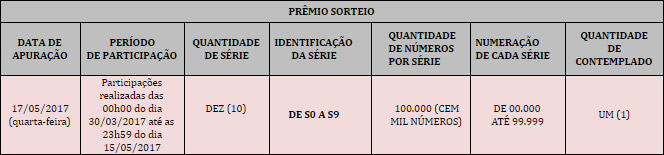
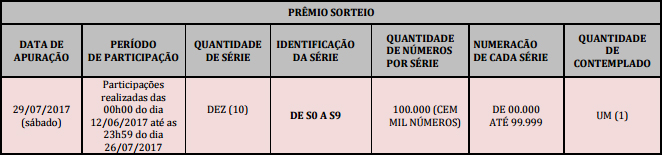
PLAT-3560 #comment ajustes landing final

Changed region(s): [[0.0, 0.0, 1.0, 1.0], [0.8761, 0.6968, 0.9668, 0.7742]]

diff --git a/src/pages/landing-concurso/index.html b/src/pages/landing-concurso/index.html
@@ -318,17 +318,17 @@
          <div>
             <img src="/arquivos/infografico.png" alt="" />
          </div> 
-         <span class="txt-promo">*Promoção válida para compras feitas de 12/06 a 29/07 e produtos acima de R$1.000,00.</span>
+         <span class="txt-promo">*Promoção válida para compras feitas de 12/06 a 26/07.<br />Pedidos com apenas peças de reposição e acessórios não entram na promoção.</span>
       </div>
       <div class="col-6 form">
-         <form action="" method="POST" id="form-concurso">
+         <form method="POST" id="form-concurso">
              <fieldset>
                  <label for="cname" class="tit">Nome Completo</label>
                  <input id="cname" type="text" name="campoName" minlength="2" required="required" data-validation="required" data-msg-required="Campo `nome` obrigatório"/>
              </fieldset>
 
              <fieldset>
-                 <label for="cemail" class="tit">E-mail</label>
+                 <label for="cemail" class="tit">E-mail <span class="frase-email">(Confira se o e-mail cadastrado está correto. Você receberá o número da sorte nele.)</span></label> 
                  <input id="cemail" type="email" name="campoEmail" required="required" data-validation="required" data-msg-required="Digite um e-mail válido" />
              </fieldset>
 
@@ -385,7 +385,8 @@
                2. Modalidade da Distribuição Gratuita de Prêmios. A distribuição gratuita de prêmios realizar-se-á na modalidade assemelhada a sorteio.<br />
                <div class="tgl">
                   3. Área de Execução. A presente promoção será válida, única e exclusivamente, para consumidores pessoas físicas - com idade igual ou superior aos dezoito (18) anos completos na data do cadastro - residentes e domiciliadas no território nacional. <br />  
-                  4. Produtos (objetos da promoção comercial). Produtos da marca Consul comercializados no seu e-commerce, endereço eletrônico: http://loja.consul.com.br/.<br />
+                  4. Produtos (objetos da promoção comercial). Produtos da marca Consul comercializados no seu e-commerce, endereço eletrônico: http://loja.consul.com.br/, excetuados os pedidos de compra com apenas peças de reposição ou acessórios que não serão válidos para essa promoção<br />
+                  4.1. Para fins de participação, serão consideradas as compras de produtos (excetuados pedidos de compra com apenas peças de reposição ou acessórios) com números de pedidos decompra faturados, ou seja, pedidos com confirmação depagamento e nota(s) fiscal(is) emitida(s).<br />
                   5. Prazo de Execução.<br />¨
                   5.1. A promoção iniciar-se-á no dia 12/06/2017 e encerrar-se-á no dia 29/07/2017 (data de apuração dos resultados). <br />
                   5.2. Período de participação: A partir das 00h00m do dia 12/06/2017 até as 23h59m (horário de Brasília) do dia 26/07/2017.<br />
@@ -393,7 +394,7 @@
                   6.1. Condição de participação. A Promoção Bem Pensada Consul é válida para a participação de pessoas físicas - com idade igual ou superior aos dezoito (18) anos completos (“Consumidores Participantes”) no ato da inscrição e residentes no Brasil que se cadastrarem no site http://loja.consul.com.br/ durante o período de participação (item 5.2), e desde que cumpridas às condições estipuladas nesse Regulamento, conforme abaixo:<br />
                   6.1.1. O controle de participação estará vinculado ao número do CPF informado pelo Participante em seu cadastro.<br />
                   6.1.1.1. Para participar dessa Promoção, não será exigida a compra de produto da marca Consul comercializados no seu e-commerce, ao efetuar o seu cadastro no hot site, o Participante receberá um Número da Sorte para concorrer ao sorteio.<br />
-                  6.1.1.2. Adicionalmente, se durante a Promoção, o Consumidor Participante efetuar compra de produto no e-commerce da marca Consul, o Consumidor Participante receberá mais um Número da Sorte [vinculado ao número do pedido de compra] para concorrer ao sorteio. O sistema da loja.consul identificará a compra e enviará a quantidade de números da sorte proporcional à compra dele<br />                     
+                  6.1.1.2. Adicionalmente, se durante a Promoção, o Consumidor Participante efetuar compra de produto no e-commerce da marca Consul [nos termos do item 4 e subitem 4.1 desse Regulamento], o Consumidor Participante receberá mais um Número da Sorte [vinculado ao número do pedido de compra] para concorrer ao sorteio. O sistema da loja consul identificará a c<br />                     
                   6.1.2. Forma da participação [CADASTRO NO HOT SITE]: Para participar, o usuário interessado deverá acessar o site http://loja.consul.com.br/ e realizar o seu cadastro, conforme abaixo:<br />
                   Preencher seus dados pessoais: Nome completo, Data de Nascimento, E-mail, CPF e DDD/Telefone;<br />
                   Assinalar a opção de aceite dos termos da Promoção, e;<br />

diff --git a/src/pages/landing-concurso/scripts/consul-landing-concurso.js b/src/pages/landing-concurso/scripts/consul-landing-concurso.js
@@ -144,7 +144,21 @@ Nitro.setup(['landing-gae'], function () {
 			return (this.optional(element) || false);
 		}
 		return (this.optional(element) || true);
+
 	}, 'Informe um telefone válido'); 
+
+
+	// valida data de nascimento
+	$.validator.addMethod('validDate', function() {
+		var valid = true;
+		var day = $('#cbirthdate').val().split('/')[0];
+		var month = $('#cbirthdate').val().split('/')[1];
+
+		if(day < 0 || day > 31) { valid = false; }
+		if(month < 0 || month > 12) { valid = false; }
+
+		return valid;
+	}, 'Data inválida');
 
 	// valida data de nascimento
 	$.validator.addMethod('birthdate', function() {
@@ -154,7 +168,7 @@ Nitro.setup(['landing-gae'], function () {
 		var year = $('#cbirthdate').val().split('/')[2];
 
 		var mydate = new Date();
-		mydate.setFullYear(year, month-1, day);
+		mydate.setFullYear(year, month-1, day-1);
 
 		var currdate = new Date();
 		currdate.setFullYear(currdate.getFullYear() - age);
@@ -177,6 +191,7 @@ Nitro.setup(['landing-gae'], function () {
 			},
 			birthdate:{
 				birthdate: true,
+				validDate: true,
 				required: true
 			},
 			document:{
@@ -213,49 +228,47 @@ Nitro.setup(['landing-gae'], function () {
 		},
 
 		submitHandler: function() {
-			var $form = $('#form-concurso');
+			// var $form = $('#form-concurso');
+			var dia = $('#cbirthdate').val().split('/')[0],
+				mes = $('#cbirthdate').val().split('/')[1],
+				ano = $('#cbirthdate').val().split('/')[2];
 
-			$form.submit(function(e) {
-				e.preventDefault();
-				var dia = $('#cbirthdate').val().split('/')[0],
-					mes = $('#cbirthdate').val().split('/')[1],
-					ano = $('#cbirthdate').val().split('/')[2];
+			var formData = {
+				name: $('#cname').val(),
+				email: $('#cemail').val(),
+				birthdate: new Date(mes + '/' + dia + '/' + ano).getTime(),
+				phone: $('#phone').val(),
+				document: $('#cpf').val(),
+				orderId: $('#orderId').val()
+			};
 
-				var formData = {
-					name: $('#cname').val(),
-					email: $('#cemail').val(),
-					birthdate: new Date(mes + '/' + dia + '/' + ano).getTime(),
-					phone: $('#phone').val(),
-					document: $('#cpf').val(),
-					orderId: $('#orderId').val()
-				};
-
-				$.ajax({
-					type: 'POST',
-					url: 'https://consul-promo.herokuapp.com/lead',
-					data: formData,
-					beforeSend: function() {
-					//addclass
-						$('.btn.primary-button').addClass('loading');
-						$('.btn-enviar span').css('display', 'none');
-					}
-				}).then(function() {
-					//deu certo
-					$('#form input.error').removeClass('error');
-					$('.error').css('display', 'none');
-					$('.btn.primary-button').after('<span class="msg-form msg-sucesso">Formulário enviado!</span>');
-					$('.msg-erro').addClass('hide');
-					$('#form input').val('');
-				}).fail(function () {
-					//deu errado
+			$.ajax({
+				type: 'POST',
+				url: 'https://consul-promo.herokuapp.com/lead',
+				data: formData,
+				beforeSend: function() {
+				//addclass
+					$('.btn.primary-button').addClass('loading');
+					$('.btn-enviar span').css('display', 'none');
+				}
+			}).then(function() {
+				//deu certo
+				$('#form input.error').removeClass('error');
+				$('.error').css('display', 'none');
+				$('.btn.primary-button').after('<span class="msg-form msg-sucesso">Formulário enviado!</span>');
+				$('.msg-erro').addClass('hide');
+				$('#form input').val('');
+			}).fail(function () {
+				//deu errado
+				$('.msg-sucesso').addClass('hide');
+				if ($('.msg-erro').length === 0) {
 					$('.btn.primary-button').after('<span class="msg-form msg-erro">Ocorreu um erro!</span>');
-					$('.msg-sucesso').addClass('hide');
-				}).always(function() {
-					//removeclass
-					$('.btn.primary-button').removeClass('loading');
-					$('.btn-enviar span').css('display', 'block');
-				});
-			}); 
+				}
+			}).always(function() {
+				//removeclass
+				$('.btn.primary-button').removeClass('loading');
+				$('.btn-enviar span').css('display', 'block');
+			});
 		}
 	});
 });

diff --git a/src/pages/landing-concurso/styles/consul-landing-concurso.scss b/src/pages/landing-concurso/styles/consul-landing-concurso.scss
@@ -484,6 +484,8 @@ h2 {
 			@include breakpoint(extra-small, 'max') { padding: 0; }
 		}
 
+		.frase-email { font-size: 12px; }
+
 		.tit {
 			color: #ffffff;
 		}
